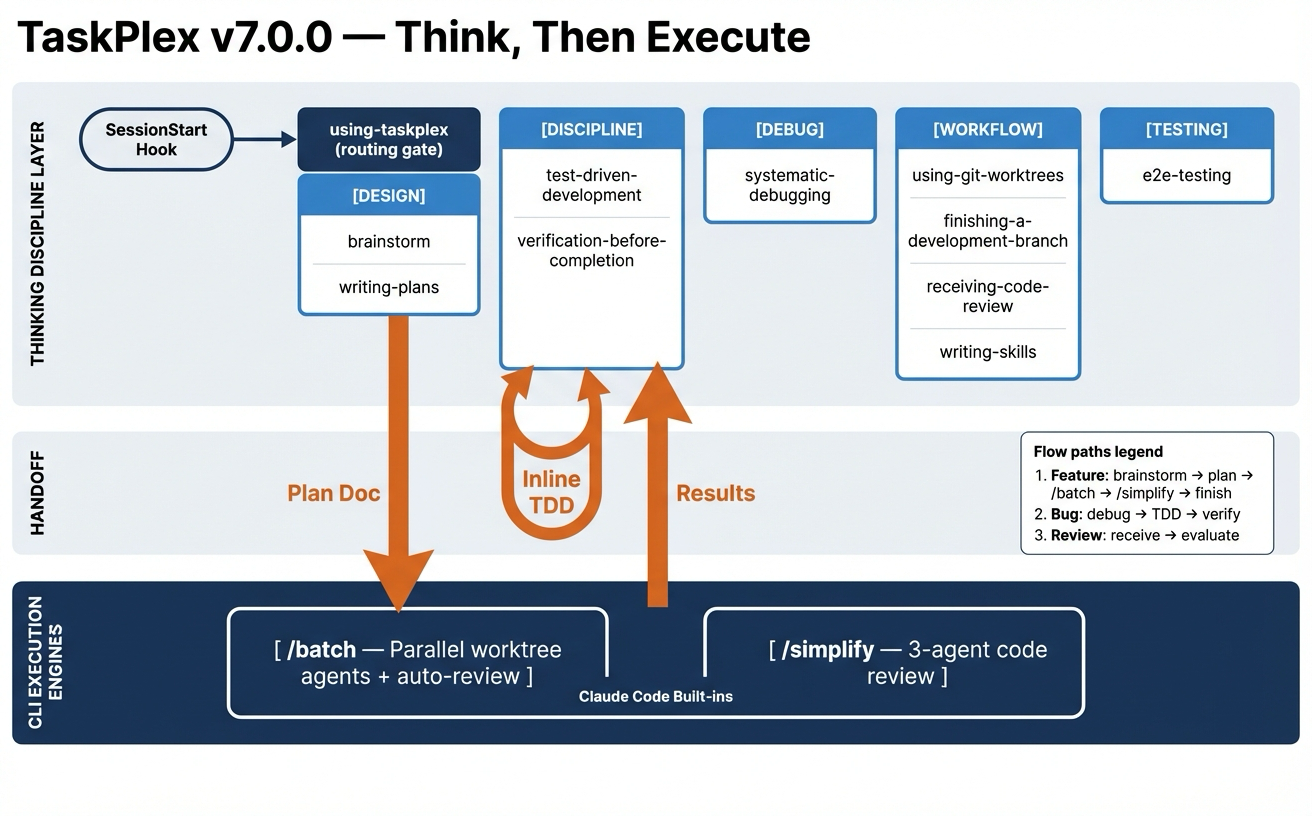
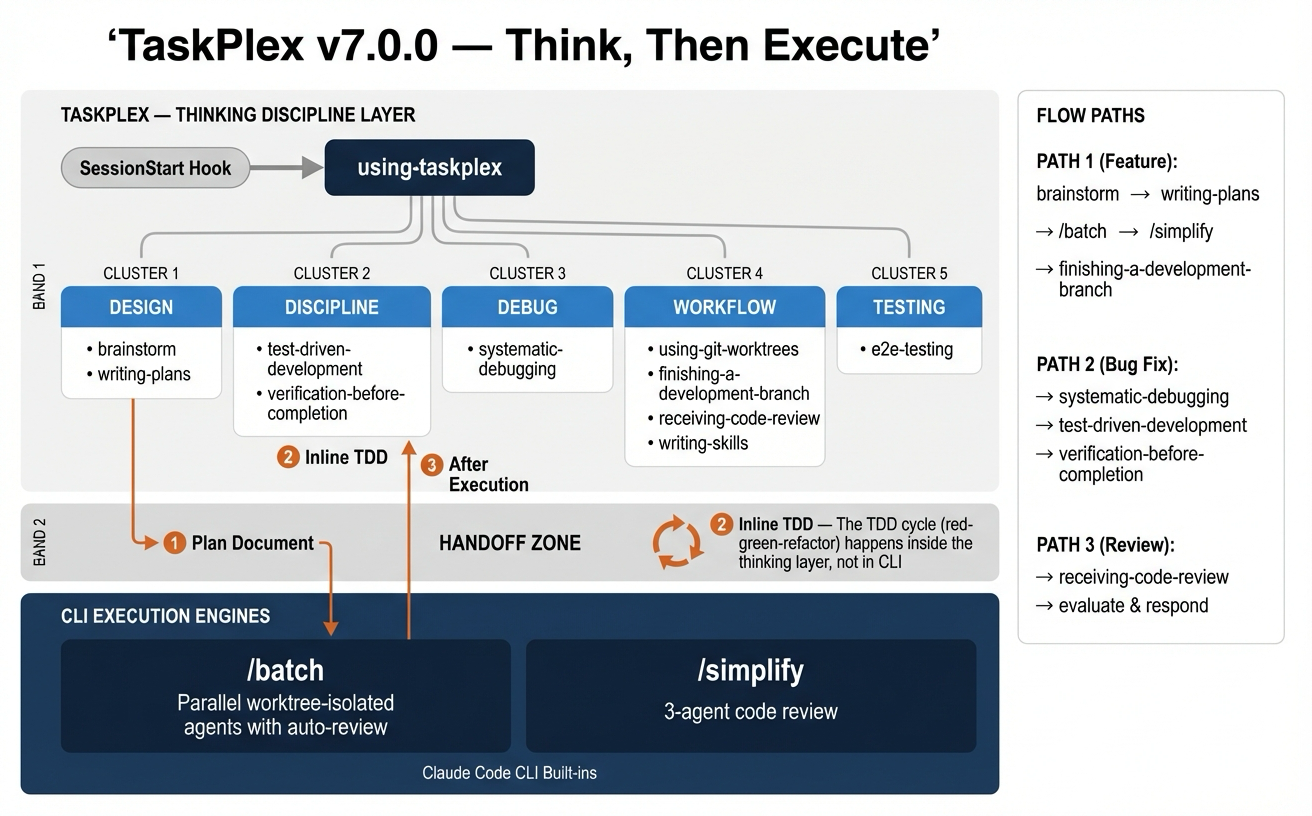
docs: improve architecture diagram and add detailed caption
Regenerated diagram with cleaner layout, proper arrow weights, and
readable cluster labels. Added descriptive caption explaining the
numbered handoff indicators, skill clusters, and flow paths.

diff --git a/README.md b/README.md
@@ -18,11 +18,11 @@ Always-on development companion for Claude Code. TDD enforcement, verification g
 
 <p align="center">
   <img src="./assets/taskplex-v7-architecture.png" alt="TaskPlex v7.0.0 Architecture — Think, Then Execute" width="800" />
-  <br/>
-  <em>TaskPlex prepares the work (brainstorm, plan, TDD) — CLI executes it (<code>/batch</code>, <code>/simplify</code>)</em>
 </p>
 
-TaskPlex activates automatically via a `SessionStart` hook that injects the `using-taskplex` skill into every conversation. This skill routes to the right workflow based on what you're doing — no explicit invocation needed.
+> **Reading the diagram:** A `SessionStart` hook activates the **using-taskplex** routing gate every session. It inspects what you're doing and routes to the right **skill cluster** — five groups of related skills: *Design* (brainstorm, writing-plans), *Discipline* (TDD, verification), *Debug* (systematic-debugging), *Workflow* (worktrees, branch finishing, code review, skill authoring), and *Testing* (e2e-testing). The three orange handoff indicators show how work flows between TaskPlex and the CLI: **①** a plan document produced by the Design cluster is handed to `/batch` for parallel execution, **②** the Inline TDD cycle (red → green → refactor) loops entirely within the Discipline cluster without leaving the thinking layer, and **③** after `/batch` or `/simplify` finishes, results flow back up to verification-before-completion for evidence-based sign-off. The **Flow Paths** panel on the right shows three common end-to-end journeys through the system.
+
+TaskPlex activates automatically — no explicit invocation needed. It is the **thinking discipline layer**: it prepares the work (brainstorm, plan, TDD) so the CLI execution engines (`/batch`, `/simplify`) produce better results.
 
 **Three shortcuts for common workflows:**
 
